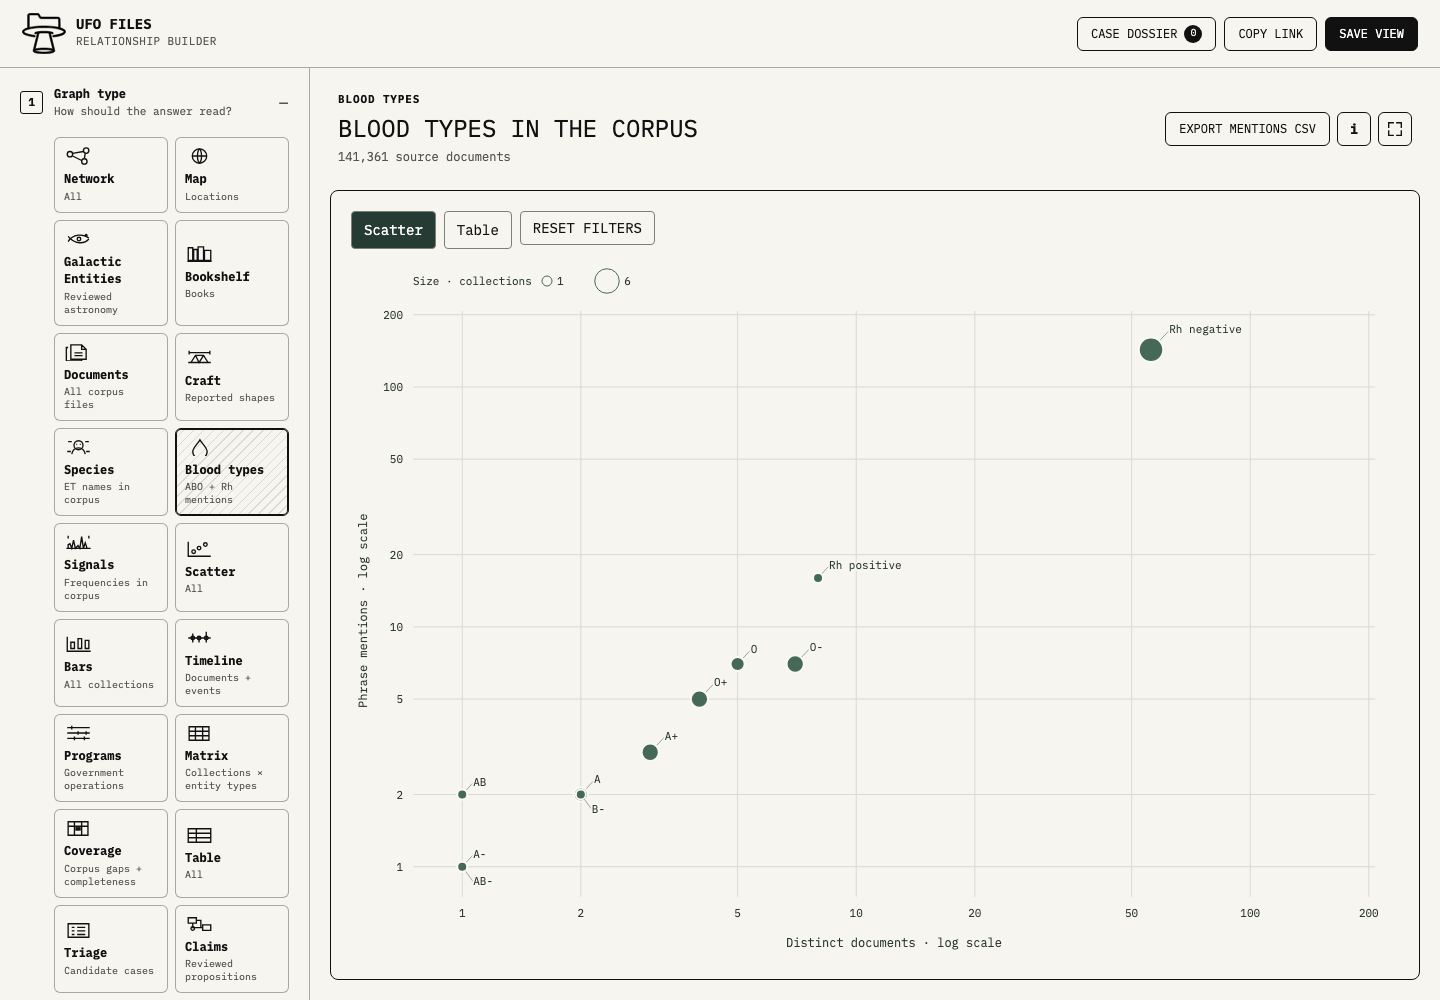
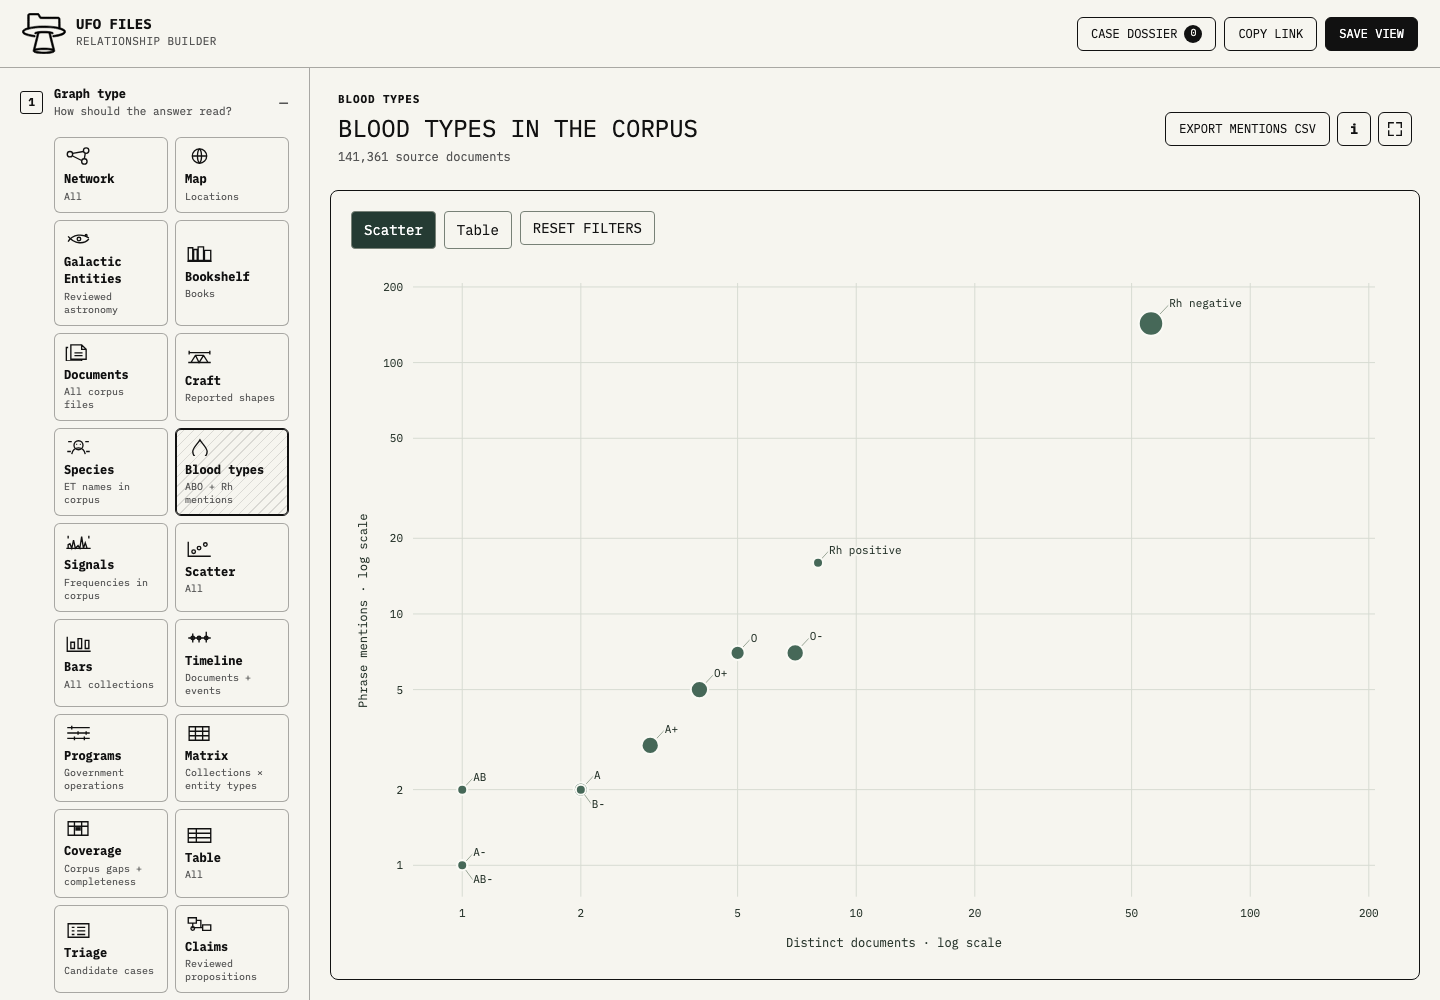
Remove blood type scatter size legend

diff --git a/app.js b/app.js
@@ -4365,20 +4365,13 @@ function drawBloodScatter(svg, observations, config) {
   const chartTop = svg.getBoundingClientRect().top - viewport.getBoundingClientRect().top + viewport.scrollTop;
   const width = Math.max(280, svg.parentElement.clientWidth);
   const height = Math.max(240, viewport.clientHeight - chartTop - bottomPadding);
-  const margin = { left: 62, right: 24, top: 48, bottom: 62 };
+  const margin = { left: 62, right: 24, top: 20, bottom: 62 };
   const maximum = Math.max(2, ...groups.map(group => group.mentions)) * 1.45;
   const logMin = Math.log10(.75), logMax = Math.log10(maximum);
   const x = value => margin.left + (Math.log10(value) - logMin) / (logMax - logMin) * (width - margin.left - margin.right);
   const y = value => height - margin.bottom - (Math.log10(value) - logMin) / (logMax - logMin) * (height - margin.top - margin.bottom);
   svg.setAttribute("viewBox", `0 0 ${width} ${height}`);
   svg.style.height = `${height}px`;
-  const largestCollectionCount = Math.max(1, ...groups.map(group => group.sources.size));
-  svg.append(el("text", { x: margin.left, y: 22, class: "blood-axis" }, "Size · collections"));
-  [...new Set([1, largestCollectionCount])].forEach((count, index) => {
-    const radius = 5 * Math.sqrt(count), cx = margin.left + 134 + index * 60;
-    svg.append(el("circle", { cx, cy: 18, r: radius, class: "blood-size-sample" }));
-    svg.append(el("text", { x: cx + radius + 5, y: 22, class: "blood-axis" }, String(count)));
-  });
   const ticks = [];
   for (let power = 0; 10 ** power <= maximum; power++) for (const multiplier of [1, 2, 5]) if (multiplier * 10 ** power <= maximum) ticks.push(multiplier * 10 ** power);
   ticks.forEach(value => {

diff --git a/styles.css b/styles.css
@@ -723,7 +723,6 @@ body.graph-fullscreen #chart { min-height: 0; }
 .blood-axis-title { font-size: 12px; fill: #28352c; }
 .blood-scatter-point { cursor: pointer; }
 .blood-scatter-point circle { fill: #466858; stroke: #fafaf5; stroke-width: 2; }
-.blood-size-sample { fill: none; stroke: #466858; stroke-width: 1; }
 .blood-scatter-point text { paint-order: stroke; stroke: #f7f6f0; stroke-width: 4px; stroke-linejoin: round; }
 .blood-leader { stroke: #9aa697; stroke-width: 1; }
 .blood-scatter-point:hover circle, .blood-scatter-point:focus circle, .blood-scatter-point[aria-pressed="true"] circle { fill: #111; stroke: #111; }
